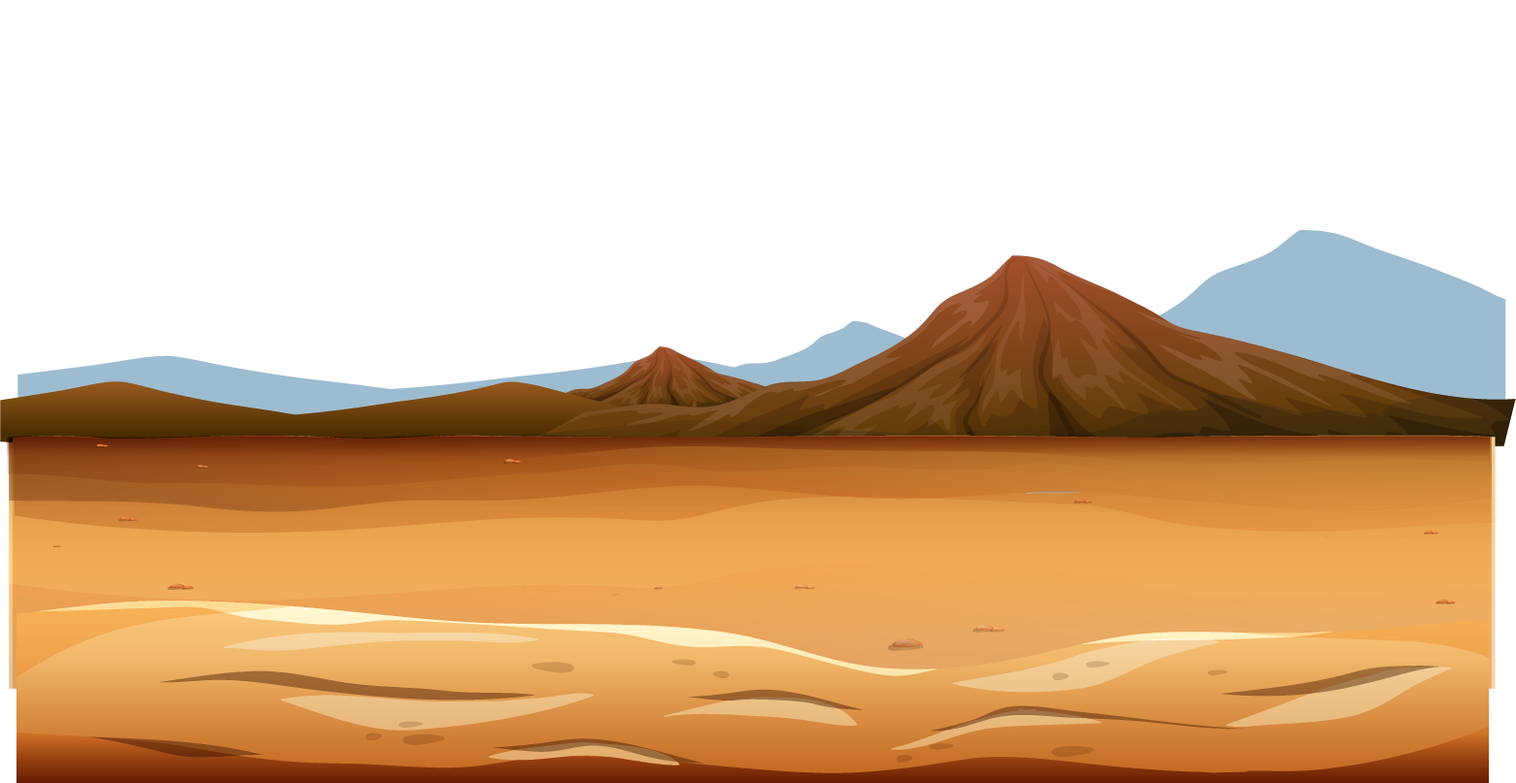
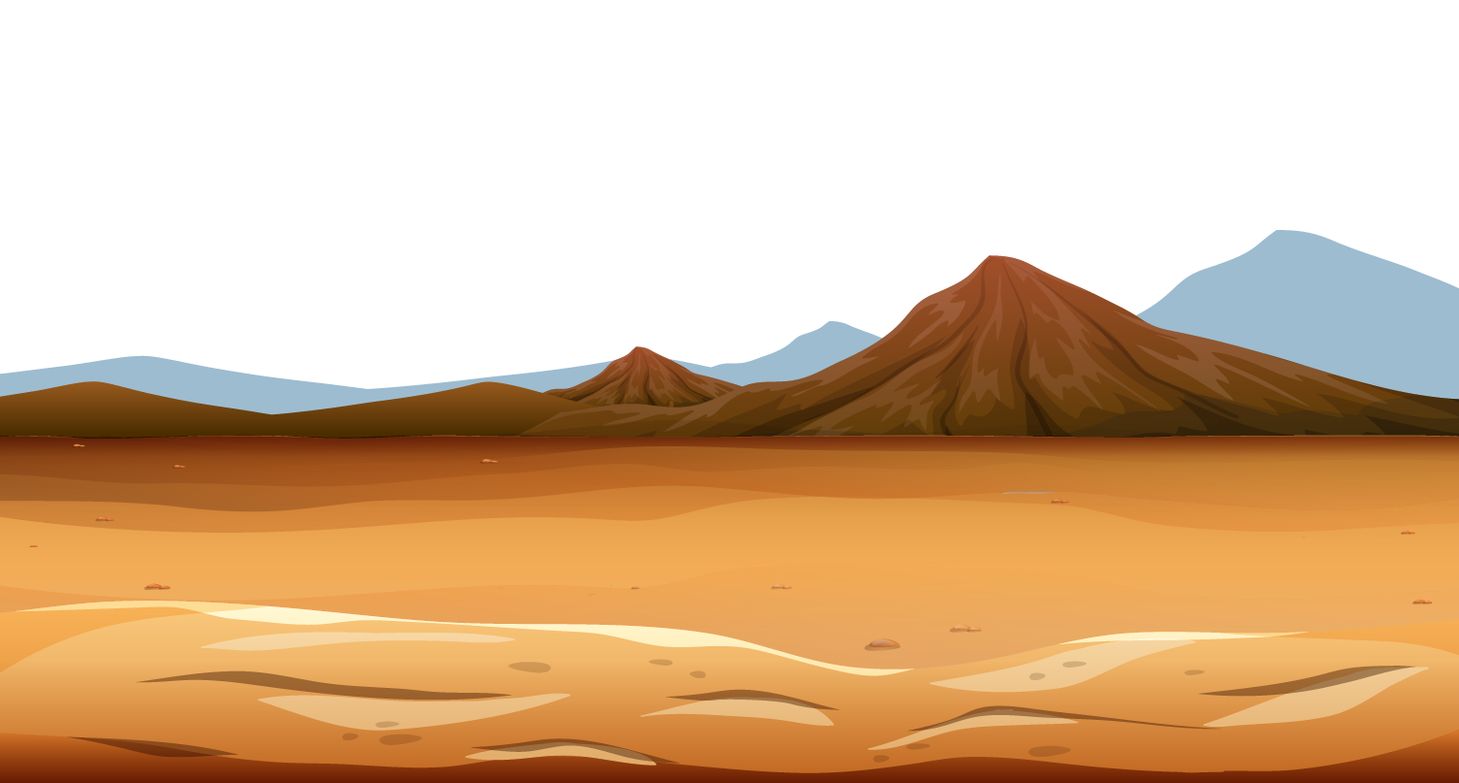
ded

diff --git a/sass/style.css b/sass/style.css
@@ -1,2 +1,2 @@
-@import url("https://fonts.googleapis.com/css2?family=Poppins:wght@400;700&family=Tilt+Neon&family=Outfit:wght@400;700&family=Prompt:wght@400;700&display=swap");section{padding:32px 0;min-height:100vh;z-index:11;background:#eee;position:relative}@media screen and (max-width: 400px){section p{font-size:.85rem}}.sticky-mode{position:sticky;left:0;right:0;top:0;bottom:0;min-height:100vh}.wrap-detikx{width:700px;position:relative;margin:0 auto}@media screen and (max-width: 766px){.wrap-detikx{width:90%;margin:0 auto;display:block}}.totop{position:relative;z-index:19}.firstletter::first-letter{float:left;font-weight:bold;margin-right:8px;font-size:60px;font-size:6rem;line-height:40px;line-height:4rem;height:4rem;text-transform:uppercase}main{overflow-x:clip}html,body{position:relative;height:100%;font-family:'Poppins'}html h2,html h3,body h2,body h3{font-weight:700;font-family:'Prompt'}.opening .point{position:absolute;width:fit-content;z-index:3;height:auto}.opening .point.malang{bottom:25%;right:40%}@media screen and (max-width: 768px){.opening .point.malang{bottom:26%;right:60%;width:80px}}@media screen and (max-width: 363px){.opening .point.malang{bottom:20%}}.opening .point.bwi{bottom:25%;right:10%}@media screen and (max-width: 768px){.opening .point.bwi{width:110px;bottom:35%;right:8%}}@media screen and (max-width: 400px){.opening .point.bwi{bottom:28%}}.opening .point img{width:100%;height:100%;object-fit:contain}.opening .peta{position:absolute;right:-10%;bottom:0;width:150%;height:auto}@media screen and (max-width: 768px){.opening .peta{bottom:-16%;width:250%;right:-20%}}.opening .peta img{width:100%;height:100%;object-fit:cover}.opening .kotak-aja{position:absolute;inset:0;width:100%;height:100%}.opening .kotak-aja img{width:100%;height:100%;object-fit:contain}@media screen and (max-width: 768px){.opening .kotak-aja img{object-fit:cover}}.opening .awan{position:relative;width:100%;height:auto;margin-bottom:16px}.opening .awan img{width:100%;height:100%;object-fit:contain}.banner{background:#f7c58d}.banner .mobil{position:absolute;right:5vw;bottom:8%;width:40vw;height:auto}@media screen and (max-width: 768px){.banner .mobil{width:100%;right:-16%}}.banner .mobil img{width:100%;height:100%;object-fit:contain}.banner .judul{position:absolute;left:50%;top:50%;width:70%;transform:translate(-50%, -50%)}@media screen and (max-width: 768px){.banner .judul{width:80%;top:20%;transform:translate(-50%, 0%)}}.banner .judul h2{font-family:'Prompt', sans-serif;font-size:3.3rem;text-transform:uppercase;text-shadow:-3px 3px 0 white, 2px 3px 0 white, 2px -2px 0 white, -2px 3px 0 white, -3px -2px 0 white}@media screen and (max-width: 768px){.banner .judul h2{font-size:2.9rem}}.cerita{background:#a55e3c;overflow:clip}.cerita::before{content:"";position:absolute;top:-10vh;width:100%;height:100px;left:0;right:0;background:#a55e3c}.cerita .abs{position:absolute}.cerita .abs-3{left:0;top:0;bottom:0;height:140%}@media screen and (max-width: 768px){.cerita .abs-3{left:0;bottom:-78vh;width:fit-content;height:auto}}@media screen and (min-width: 1600px){.cerita .abs-3{left:0;top:0;bottom:0;height:100%}}.cerita .abs-2{left:35vw;top:-12vh;bottom:0;height:80%}@media screen and (max-width: 768px){.cerita .abs-2{left:initial;bottom:-8vh;width:fit-content;height:auto;transform:rotate(-29deg);right:0}}@media screen and (min-width: 1600px){.cerita .abs-2{left:25vw;top:-12vh;bottom:0;height:80%}}.cerita .abs-1{left:-20vw;width:auto;height:140%;bottom:-10vh}@media screen and (max-width: 768px){.cerita .abs-1{left:-76vw;width:auto;height:80%;bottom:-20vh}}@media screen and (min-width: 1900px){.cerita .abs-1{left:-20vw;height:100%;bottom:-10vh}}.cerita .abs img{width:100%;height:100%;object-fit:contain}.cerita .abs-rel{bottom:-46vh;left:-36vw;width:auto;height:100%}@media screen and (max-width: 768px){.cerita .abs-rel{left:-100vw}}@media screen and (min-width: 1400px){.cerita .abs-rel{bottom:-40vh;left:-50vw}}@keyframes banner{0%{transform:rotateY(0deg);bottom:30%;left:5%}20%{bottom:30%;left:5%}50%{bottom:70%;left:-30%}51%{bottom:calc(50% + 300px);left:-55%}100%{bottom:30%;left:5%}}@keyframes banner-mob{0%{transform:rotateY(0deg);bottom:18vh;left:12%}20%{bottom:18vh;left:12%}50%{bottom:40vh;left:-60%}51%{bottom:43vh;left:-62%}100%{bottom:18vh;left:12%}}.cerita .abs.mobil-1{left:5%;bottom:30%;height:250px;width:fit-content;animation:linear infinite;animation-name:banner;animation-duration:12s}@media screen and (max-width: 768px){.cerita .abs.mobil-1{height:18vh;bottom:18vh;left:12%;animation:linear infinite;animation-name:banner-mob;animation-duration:15s}}.cerita .abs.mobil-2{left:20%;bottom:10vh;height:30vh;z-index:1}@media screen and (max-width: 768px){.cerita .abs.mobil-2{left:initial;height:18vh;bottom:10vh;right:6vw}}.cerita .abs.mobil-2 .bayang{position:absolute;right:-52%;height:80px;bottom:6px}@media screen and (max-width: 768px){.cerita .abs.mobil-2 .bayang{right:-44%;height:56px}}.cerita .abs.mobil-2 .bayang img{width:100%;height:100%;object-fit:contain}.cerita .abs.mobil-2 .lala{position:relative;z-index:2}@keyframes Gali{0%, 100%{transform:rotate(-5deg);top:2%;left:-40%}50%{transform:rotate(-15deg);top:4%;left:-36%}}@keyframes GaliBig{0%, 100%{transform:rotate(-5deg);top:2%;left:-30%}50%{transform:rotate(-20deg);top:4%;left:-24%}}.cerita .abs.mobil-2 .gali{animation:Gali 2s linear infinite;position:absolute;left:-40%;width:120px;top:2%;transform:rotate(-5deg);height:120px;z-index:1}@media screen and (max-width: 768px){.cerita .abs.mobil-2 .gali{width:100px;height:100px;left:-50%}}@media screen and (min-width: 1500px){.cerita .abs.mobil-2 .gali{animation:GaliBig 2s linear infinite;left:-30%}}@media screen and (max-width: 400px){.cerita .abs.mobil-2 .gali{width:80px;height:80px;left:-40%}}.cerita .abs.kereta-1{bottom:0;left:8vw;display:none}@media screen and (max-width: 768px){.cerita .abs.kereta-1{bottom:5vh}}@keyframes kereta{0%{bottom:-20vh;left:15vw}30%{bottom:-20vh;left:15vw}50%{bottom:50vh;left:-45vw}51%{bottom:55vh;left:-50vw}100%{bottom:-20vh;left:15vw}}@keyframes kereta-mob{0%{bottom:-3vh;left:12%}30%{bottom:-3vh;left:12%}50%{bottom:20%;left:-70%}51%{bottom:22%;left:-83%}100%{bottom:-3vh;left:12%}}.cerita .abs.kereta-2{bottom:-10vh;animation:linear infinite;animation-name:kereta;animation-duration:10s;left:15vw;z-index:2;height:fit-content}@media screen and (max-width: 768px){.cerita .abs.kereta-2{bottom:-3vh;left:8%;height:180px;animation:linear infinite;animation-name:kereta-mob;animation-duration:12s}}.cerita .wrap-detikx{margin-top:-50vh}@media screen and (max-width: 768px){.cerita .wrap-detikx{margin-top:-100vh}}.cerita .judul{color:#ffe473;font-size:2.2rem;text-align:right;margin:0}@media screen and (max-width: 768px){.cerita .judul{font-size:1.8rem;text-align:left}}.cerita .sub-judul{font-size:1rem;text-align:right;font-weight:700;color:#e2ac71}@media screen and (max-width: 768px){.cerita .sub-judul{text-align:left;padding:0}}.cerita .content{text-align:right;color:white;padding:8px 8px;margin-bottom:10vh;border-radius:16px;background:linear-gradient(to bottom, transparent, rgba(165,94,60,0.7))}@media screen and (max-width: 768px){.cerita .content{text-align:left;margin-bottom:20vh}}@media screen and (max-width: 768px){.cerita .content.mar-bot{margin-bottom:50vh}}.pantai{background:linear-gradient(to left, #058ac7, #95e0ce);overflow:clip;display:none}@media screen and (max-width: 768px){.pantai{background:linear-gradient(to bottom, #058ac7, #95e0ce)}}.pantai .test-pulau{position:absolute;bottom:35vh;right:-8vw;width:35%;height:fit-content}@media screen and (max-width: 768px){.pantai .test-pulau{position:absolute;bottom:35vh;right:50vw;width:70%;height:fit-content}}.pantai .test-pulau img{width:100%;height:100%;object-fit:contain}.pantai .ombak{position:absolute;right:2vw;bottom:-8vh;width:auto;height:fit-content}@media screen and (max-width: 768px){.pantai .ombak{position:absolute;right:-10vw;bottom:15vh;width:100%;height:50vh}}.pantai .ombak img{width:100%;height:100%;object-fit:contain}.pantai .content{color:white}.pantai .wrap-detikx{margin-top:-30vh}@media screen and (max-width: 768px){.pantai .wrap-detikx{margin-top:-80vh}}.pantai .judul{font-size:2.8rem;margin-bottom:16px}@media screen and (max-width: 768px){.pantai .judul{font-size:1.8rem}}.pantai .hello{background:linear-gradient(to bottom, #058ac7, rgba(5,138,199,0.5));padding:8px;border-radius:16px;margin-bottom:10vh}@media screen and (max-width: 768px){.pantai .hello{margin-bottom:40vh}}.sunset{padding-top:0;background:#f1a04b;padding-bottom:1px}.sunset .help-bg{position:absolute;top:-8vh;left:0;right:0;width:100%;height:auto;transform:rotate(180deg);z-index:2}@media screen and (max-width: 768px){.sunset .help-bg{top:0}}.sunset .help-bg img{width:100%;height:100%;object-fit:contain}.sunset .bg{background:linear-gradient(to top, #f0a24b 25%, #fb3d36 25%);position:absolute;inset:0}@media screen and (max-width: 768px){.sunset .bg{background:linear-gradient(to top, #f0a24b 37%, #fb3d36 37%)}}.sunset .img{width:fit-content;height:auto}.sunset .img img{width:100%;height:100%;object-fit:contain}.sunset .awan{position:absolute;top:25%;left:15%;height:auto;width:300px}@media screen and (max-width: 768px){.sunset .awan{width:fit-content}}.sunset .awan img{width:100%;height:100%;object-fit:contain}.sunset .pulau{position:absolute;bottom:20vh;left:50%;z-index:2;width:50%;height:auto;transform:translate(-50%, 0)}@media screen and (max-width: 768px){.sunset .pulau{width:100%;height:auto;bottom:35vh}}.sunset .pulau-bayangan{position:absolute;bottom:0vh;left:50%;z-index:2;width:70%;height:auto;transform:translate(-50%, 0)}@media screen and (max-width: 768px){.sunset .pulau-bayangan{width:150%;height:fit-content;bottom:25vh}}.sunset .matahari{position:absolute;bottom:15vh;left:50%;z-index:1;width:30%;height:auto;transform:translate(-50%, 0)}@media screen and (max-width: 768px){.sunset .matahari{width:50%;height:auto;bottom:35vh}}.sunset .awan-atas{position:absolute;bottom:-5%;z-index:3;left:50%;transform:translate(-50%, 0);width:120%;height:auto}@media screen and (max-width: 768px){.sunset .awan-atas{bottom:-1%}}.sunset .awan-atas img{width:100%;height:100%;object-fit:contain}.sunset .wrap-detikx{margin-top:-50vh}@keyframes burung{0%, 100%{bottom:50vh;opacity:0;transform:scale(0)}20%{bottom:50vh;opacity:0;transform:scale(0)}30%{bottom:50vh;opacity:1;transform:scale(1)}50%{bottom:52vh;opacity:1;transform:scale(1)}70%{bottom:55vh;transform:scale(1);opacity:.5}80%{bottom:55vh;opacity:0;transform:scale(0)}100%{bottom:55vh;opacity:0;transform:scale(0)}}.sunset .burung{animation:burung 15s linear infinite;position:absolute;opacity:0;right:15vw;bottom:50vh}@media screen and (max-width: 768px){.sunset .burung{bottom:60vh}}.sunset .judul{text-align:center;color:white;font-size:2.8rem;margin-bottom:16px;text-shadow:3px 3px #600603}@media screen and (max-width: 768px){.sunset .judul{font-size:1.8rem}}.sunset .hello{background:rgba(252,124,44,0.8);padding:16px;border-radius:16px;margin-bottom:10vh}.sunset .hello.mar-bot{margin-bottom:70vh}.sunset .hello p,.sunset .hello li{color:white}.sunset .abs{display:none}@media screen and (max-width: 768px){.sunset .abs{left:-6%;z-index:4;display:block;bottom:-15%;position:absolute;transform:rotate(130deg);width:115%;height:auto}}.sunset .abs img{width:100%;height:100%;object-fit:contain}.pesisir{background:linear-gradient(to top, #fdbb9b, #f8e99b);padding:0}.pesisir .wrap-detikx{margin-top:-50vh}.pesisir .awan-kuning{position:absolute;left:0;right:0;top:-8vh;width:100%;height:fit-content}@media screen and (max-width: 768px){.pesisir .awan-kuning{top:-3vh}}.pesisir .awan-kuning img{width:100%;height:100%;object-fit:contain}.pesisir .judul{font-size:2.8rem;color:#d85c5c}@media screen and (max-width: 768px){.pesisir .judul{font-size:2rem}}.pesisir .hello{background:linear-gradient(to bottom, #faae2e, rgba(250,174,46,0.7));padding:16px;border-radius:16px;margin-bottom:20vh;color:white}.pesisir .hello.mar-bot{margin-bottom:50vh}.pesisir .mobil{position:absolute;right:0;z-index:3;width:fit-content;height:40%;bottom:20px}@media screen and (max-width: 768px){.pesisir .mobil{bottom:72px;width:50%;height:auto}}.pesisir .mobil img{width:100%;height:100%;object-fit:contain}.pesisir .pohon{position:absolute;right:0;bottom:157px;z-index:1;width:50%}@media screen and (max-width: 768px){.pesisir .pohon{width:100%;bottom:80px}}.pesisir .pohon img{width:100%;height:100%;object-fit:contain}.pesisir .awan{position:absolute;right:10%;top:15%;width:fit-content;height:70px}.pesisir .awan img{width:100%;height:100%;object-fit:contain}.pesisir .alat{position:absolute;bottom:100px;right:30vw;width:18%;height:auto;z-index:2}@media screen and (max-width: 768px){.pesisir .alat{right:40%;width:20%}}.pesisir .alat img{width:100%;height:100%;object-fit:contain}.pesisir .aer{position:absolute;bottom:0;left:0;right:0}@media screen and (max-width: 768px){.pesisir .aer{bottom:72px}}.pesisir .aer img{width:100%;height:auto;object-fit:contain}.pesisir .pasir{position:absolute;bottom:0;left:0;right:0;width:100%;z-index:1;height:fit-content}@media screen and (max-width: 768px){.pesisir .pasir{bottom:72px}}.pesisir .pasir img{width:100%;height:auto}.bromo{background:#c1e7fa;padding:1px 0;overflow-y:clip}@keyframes awanbromo{0%, 100%{left:15%}50%{left:25%}}.bromo .awan-bromo{position:absolute;animation:awanbromo 10s linear infinite;bottom:25%;left:15%;width:300px;height:auto;z-index:3}@media screen and (max-width: 768px){.bromo .awan-bromo{bottom:12%;width:120px}}.bromo .awan-bromo img{width:100%;height:100%;object-fit:contain}@keyframes awanbromo2{0%, 100%{right:15%}50%{right:20%}}.bromo .awan-bromo2{position:absolute;animation:awanbromo2 13s linear infinite;bottom:20%;right:15%;width:200px;height:auto;z-index:3}@media screen and (max-width: 768px){.bromo .awan-bromo2{bottom:12%;width:120px}}.bromo .awan-bromo2 img{width:100%;height:100%;object-fit:contain}.bromo .gunung{position:absolute;left:0;right:0;bottom:0vh;width:100%;height:auto}@media screen and (max-width: 768px){.bromo .gunung{bottom:0;width:160%;transform:translate(-50%, 0);left:50%}}.bromo .gunung img{width:100%;height:100%;object-fit:cover}.bromo .content .judul{color:#507125;font-size:2.8rem}@media screen and (max-width: 768px){.bromo .content .judul{font-size:1.7rem}}.bromo .content .hello{padding:16px;border-radius:16px;margin-bottom:30vh;background:linear-gradient(to bottom, #fff, rgba(255,255,255,0.8))}@media screen and (max-width: 768px){.bromo .content .hello{margin-bottom:10vh}}.bromo .content .hello.mar-bot{margin-bottom:50vh}.bromo .wrap-detikx{margin-top:-20vh}@media screen and (max-width: 768px){.bromo .wrap-detikx{margin-top:-90vh}}.lautan-pasir .judul{font-size:2.8rem}@media screen and (max-width: 768px){.lautan-pasir .judul{font-size:1.8rem}}.lautan-pasir .batas{position:absolute;top:-8vh;left:0;right:0}.lautan-pasir .batas::before{content:"";position:absolute;left:0;right:0;bottom:0;width:100%;height:200px;background:linear-gradient(to top, #eee, transparent)}@media screen and (max-width: 768px){.lautan-pasir .batas::before{background:transparent}}.lautan-pasir .img{width:100%;height:420px;border-radius:16px;box-shadow:3px 3px 5px #bbb}@media screen and (max-width: 768px){.lautan-pasir .img{height:320px}}.lautan-pasir .img img{width:100%;border-radius:16px;height:100%;object-fit:cover}.lautan-pasir .content{margin:16px 0}.pembukaan{background:#f7c58d}.pembukaan .wrap-detikx{position:relative;top:-80vh}.pembukaan .coba-peta{position:absolute;bottom:5%;left:50%;width:80%;height:50%;transform:translate(-50%, 0)}.pembukaan .coba-peta img{width:100%;height:100%;object-fit:contain}.pembukaan .jatim{position:absolute;right:5%;bottom:35%;width:320px;height:auto}@media screen and (max-width: 768px){.pembukaan .jatim{bottom:35%;width:110px}}.pembukaan .jatim img{width:100%;height:100%;object-fit:contain}.malang{background:#d7f0f7;padding:0}.malang .judul{font-size:3.3rem}@media screen and (max-width: 768px){.malang .judul{font-size:2.8rem}}.malang .helping{position:absolute;inset:0;background:linear-gradient(to top, #c5d566 22%, #d7f0f7 20%)}@media screen and (max-width: 768px){.malang .helping{background:linear-gradient(to top, #c5d566 63%, #d7f0f7 20%)}}@media screen and (max-width: 405px){.malang .helping{background:linear-gradient(to top, #c5d566 67%, #d7f0f7 20%)}}.malang .tahu-telur{position:absolute;top:55%;right:30%;width:220px;height:auto}@media screen and (min-width: 1400px){.malang .tahu-telur{transform:translate(0, -24%)}}@media screen and (max-width: 768px){.malang .tahu-telur{position:absolute;top:26%;right:70%;width:76px;height:auto}}@media screen and (max-width: 405px){.malang .tahu-telur{top:28%}}.malang .tahu-telur img{width:100%;height:100%;object-fit:contain}.malang .stick-judul{font-size:3.5rem;top:28%;right:7%;width:30%;position:absolute;text-align:center;line-height:3rem;text-shadow:3px 3px silver}@media screen and (max-width: 768px){.malang .stick-judul{font-size:2.5rem;top:10%;line-height:2rem;right:5%;width:70%;text-align:right;position:absolute}}.malang .hello{margin-bottom:30vh;background:linear-gradient(to bottom, #fff, rgba(255,255,255,0.8));padding:16px;border-radius:16px}@media screen and (max-width: 768px){.malang .hello{margin-bottom:10vh}}.malang .wrap-detikx{position:relative;top:-90vh}@media screen and (max-width: 768px){.malang .wrap-detikx{top:-60vh}}.malang .taman{position:absolute;top:10%;right:0;width:70%;height:auto}@media screen and (max-width: 768px){.malang .taman{width:100%}}.malang .taman img{width:100%;height:100%;object-fit:contain}.surabaya .judul{font-size:3rem}
+@import url("https://fonts.googleapis.com/css2?family=Poppins:wght@400;700&family=Tilt+Neon&family=Outfit:wght@400;700&family=Prompt:wght@400;700&display=swap");section{padding:32px 0;min-height:100vh;z-index:11;background:#eee;position:relative}@media screen and (max-width: 400px){section p{font-size:.85rem}}.sticky-mode{position:sticky;left:0;right:0;top:0;bottom:0;min-height:100vh}.wrap-detikx{width:700px;position:relative;margin:0 auto}@media screen and (max-width: 766px){.wrap-detikx{width:90%;margin:0 auto;display:block}}.totop{position:relative;z-index:19}.firstletter::first-letter{float:left;font-weight:bold;margin-right:8px;font-size:60px;font-size:6rem;line-height:40px;line-height:4rem;height:4rem;text-transform:uppercase}main{overflow-x:clip}html,body{position:relative;height:100%;font-family:'Poppins'}html h2,html h3,body h2,body h3{font-weight:700;font-family:'Prompt'}.opening .point{position:absolute;width:fit-content;z-index:3;height:auto}.opening .point.malang{bottom:25%;right:40%}@media screen and (max-width: 768px){.opening .point.malang{bottom:26%;right:60%;width:80px}}@media screen and (max-width: 363px){.opening .point.malang{bottom:20%}}.opening .point.bwi{bottom:25%;right:10%}@media screen and (max-width: 768px){.opening .point.bwi{width:110px;bottom:35%;right:8%}}@media screen and (max-width: 400px){.opening .point.bwi{bottom:28%}}.opening .point img{width:100%;height:100%;object-fit:contain}.opening .peta{position:absolute;right:-10%;bottom:0;width:150%;height:auto}@media screen and (max-width: 768px){.opening .peta{bottom:-16%;width:250%;right:-20%}}.opening .peta img{width:100%;height:100%;object-fit:cover}.opening .kotak-aja{position:absolute;inset:0;width:100%;height:100%}.opening .kotak-aja img{width:100%;height:100%;object-fit:contain}@media screen and (max-width: 768px){.opening .kotak-aja img{object-fit:cover}}.opening .awan{position:relative;width:100%;height:auto;margin-bottom:16px}.opening .awan img{width:100%;height:100%;object-fit:contain}.banner{background:#f7c58d}.banner .mobil{position:absolute;right:5vw;bottom:8%;width:40vw;height:auto;z-index:4}@media screen and (max-width: 768px){.banner .mobil{width:100%;right:-16%;bottom:5%}}.banner .mobil img{width:100%;height:100%;object-fit:contain}.banner .pasir{position:absolute;inset:0;width:100%;height:auto}@media screen and (max-width: 768px){.banner .pasir{inset:initial;left:0;right:0;bottom:0;width:200%;height:auto}}.banner .pasir img{width:100%;height:100%;object-fit:cover}.banner .judul{position:absolute;left:50%;top:30%;width:70%;transform:translate(-50%, -50%)}@media screen and (max-width: 768px){.banner .judul{width:80%;top:20%;transform:translate(-50%, 0%)}}.banner .judul h2{font-family:'Prompt', sans-serif;font-size:3.3rem;text-transform:uppercase;text-shadow:-3px 3px 0 white, 2px 3px 0 white, 2px -2px 0 white, -2px 3px 0 white, -3px -2px 0 white}@media screen and (max-width: 768px){.banner .judul h2{font-size:2.9rem}}.cerita{background:#a55e3c;overflow:clip}.cerita::before{content:"";position:absolute;top:-10vh;width:100%;height:100px;left:0;right:0;background:#a55e3c}.cerita .abs{position:absolute}.cerita .abs-3{left:0;top:0;bottom:0;height:140%}@media screen and (max-width: 768px){.cerita .abs-3{left:0;bottom:-78vh;width:fit-content;height:auto}}@media screen and (min-width: 1600px){.cerita .abs-3{left:0;top:0;bottom:0;height:100%}}.cerita .abs-2{left:35vw;top:-12vh;bottom:0;height:80%}@media screen and (max-width: 768px){.cerita .abs-2{left:initial;bottom:-8vh;width:fit-content;height:auto;transform:rotate(-29deg);right:0}}@media screen and (min-width: 1600px){.cerita .abs-2{left:25vw;top:-12vh;bottom:0;height:80%}}.cerita .abs-1{left:-20vw;width:auto;height:140%;bottom:-10vh}@media screen and (max-width: 768px){.cerita .abs-1{left:-76vw;width:auto;height:80%;bottom:-20vh}}@media screen and (min-width: 1900px){.cerita .abs-1{left:-20vw;height:100%;bottom:-10vh}}.cerita .abs img{width:100%;height:100%;object-fit:contain}.cerita .abs-rel{bottom:-46vh;left:-36vw;width:auto;height:100%}@media screen and (max-width: 768px){.cerita .abs-rel{left:-100vw}}@media screen and (min-width: 1400px){.cerita .abs-rel{bottom:-40vh;left:-50vw}}@keyframes banner{0%{transform:rotateY(0deg);bottom:30%;left:5%}20%{bottom:30%;left:5%}50%{bottom:70%;left:-30%}51%{bottom:calc(50% + 300px);left:-55%}100%{bottom:30%;left:5%}}@keyframes banner-mob{0%{transform:rotateY(0deg);bottom:18vh;left:12%}20%{bottom:18vh;left:12%}50%{bottom:40vh;left:-60%}51%{bottom:43vh;left:-62%}100%{bottom:18vh;left:12%}}.cerita .abs.mobil-1{left:5%;bottom:30%;height:250px;width:fit-content;animation:linear infinite;animation-name:banner;animation-duration:12s}@media screen and (max-width: 768px){.cerita .abs.mobil-1{height:18vh;bottom:18vh;left:12%;animation:linear infinite;animation-name:banner-mob;animation-duration:15s}}.cerita .abs.mobil-2{left:20%;bottom:10vh;height:30vh;z-index:1}@media screen and (max-width: 768px){.cerita .abs.mobil-2{left:initial;height:18vh;bottom:10vh;right:6vw}}.cerita .abs.mobil-2 .bayang{position:absolute;right:-52%;height:80px;bottom:6px}@media screen and (max-width: 768px){.cerita .abs.mobil-2 .bayang{right:-44%;height:56px}}.cerita .abs.mobil-2 .bayang img{width:100%;height:100%;object-fit:contain}.cerita .abs.mobil-2 .lala{position:relative;z-index:2}@keyframes Gali{0%, 100%{transform:rotate(-5deg);top:2%;left:-40%}50%{transform:rotate(-15deg);top:4%;left:-36%}}@keyframes GaliBig{0%, 100%{transform:rotate(-5deg);top:2%;left:-30%}50%{transform:rotate(-20deg);top:4%;left:-24%}}.cerita .abs.mobil-2 .gali{animation:Gali 2s linear infinite;position:absolute;left:-40%;width:120px;top:2%;transform:rotate(-5deg);height:120px;z-index:1}@media screen and (max-width: 768px){.cerita .abs.mobil-2 .gali{width:100px;height:100px;left:-50%}}@media screen and (min-width: 1500px){.cerita .abs.mobil-2 .gali{animation:GaliBig 2s linear infinite;left:-30%}}@media screen and (max-width: 400px){.cerita .abs.mobil-2 .gali{width:80px;height:80px;left:-40%}}.cerita .abs.kereta-1{bottom:0;left:8vw;display:none}@media screen and (max-width: 768px){.cerita .abs.kereta-1{bottom:5vh}}@keyframes kereta{0%{bottom:-20vh;left:15vw}30%{bottom:-20vh;left:15vw}50%{bottom:50vh;left:-45vw}51%{bottom:55vh;left:-50vw}100%{bottom:-20vh;left:15vw}}@keyframes kereta-mob{0%{bottom:-3vh;left:12%}30%{bottom:-3vh;left:12%}50%{bottom:20%;left:-70%}51%{bottom:22%;left:-83%}100%{bottom:-3vh;left:12%}}.cerita .abs.kereta-2{bottom:-10vh;animation:linear infinite;animation-name:kereta;animation-duration:10s;left:15vw;z-index:2;height:fit-content}@media screen and (max-width: 768px){.cerita .abs.kereta-2{bottom:-3vh;left:8%;height:180px;animation:linear infinite;animation-name:kereta-mob;animation-duration:12s}}.cerita .wrap-detikx{margin-top:-50vh}@media screen and (max-width: 768px){.cerita .wrap-detikx{margin-top:-100vh}}.cerita .judul{color:#ffe473;font-size:2.2rem;text-align:right;margin:0}@media screen and (max-width: 768px){.cerita .judul{font-size:1.8rem;text-align:left}}.cerita .sub-judul{font-size:1rem;text-align:right;font-weight:700;color:#e2ac71}@media screen and (max-width: 768px){.cerita .sub-judul{text-align:left;padding:0}}.cerita .content{text-align:right;color:white;padding:8px 8px;margin-bottom:10vh;border-radius:16px;background:linear-gradient(to bottom, transparent, rgba(165,94,60,0.7))}@media screen and (max-width: 768px){.cerita .content{text-align:left;margin-bottom:20vh}}@media screen and (max-width: 768px){.cerita .content.mar-bot{margin-bottom:50vh}}.pantai{background:linear-gradient(to left, #058ac7, #95e0ce);overflow:clip;display:none}@media screen and (max-width: 768px){.pantai{background:linear-gradient(to bottom, #058ac7, #95e0ce)}}.pantai .test-pulau{position:absolute;bottom:35vh;right:-8vw;width:35%;height:fit-content}@media screen and (max-width: 768px){.pantai .test-pulau{position:absolute;bottom:35vh;right:50vw;width:70%;height:fit-content}}.pantai .test-pulau img{width:100%;height:100%;object-fit:contain}.pantai .ombak{position:absolute;right:2vw;bottom:-8vh;width:auto;height:fit-content}@media screen and (max-width: 768px){.pantai .ombak{position:absolute;right:-10vw;bottom:15vh;width:100%;height:50vh}}.pantai .ombak img{width:100%;height:100%;object-fit:contain}.pantai .content{color:white}.pantai .wrap-detikx{margin-top:-30vh}@media screen and (max-width: 768px){.pantai .wrap-detikx{margin-top:-80vh}}.pantai .judul{font-size:2.8rem;margin-bottom:16px}@media screen and (max-width: 768px){.pantai .judul{font-size:1.8rem}}.pantai .hello{background:linear-gradient(to bottom, #058ac7, rgba(5,138,199,0.5));padding:8px;border-radius:16px;margin-bottom:10vh}@media screen and (max-width: 768px){.pantai .hello{margin-bottom:40vh}}.sunset{padding-top:0;background:#f1a04b;padding-bottom:1px}.sunset .help-bg{position:absolute;top:-8vh;left:0;right:0;width:100%;height:auto;transform:rotate(180deg);z-index:2}@media screen and (max-width: 768px){.sunset .help-bg{top:0}}.sunset .help-bg img{width:100%;height:100%;object-fit:contain}.sunset .bg{background:linear-gradient(to top, #f0a24b 25%, #fb3d36 25%);position:absolute;inset:0}@media screen and (max-width: 768px){.sunset .bg{background:linear-gradient(to top, #f0a24b 37%, #fb3d36 37%)}}.sunset .img{width:fit-content;height:auto}.sunset .img img{width:100%;height:100%;object-fit:contain}.sunset .awan{position:absolute;top:25%;left:15%;height:auto;width:300px}@media screen and (max-width: 768px){.sunset .awan{width:fit-content}}.sunset .awan img{width:100%;height:100%;object-fit:contain}.sunset .pulau{position:absolute;bottom:20vh;left:50%;z-index:2;width:50%;height:auto;transform:translate(-50%, 0)}@media screen and (max-width: 768px){.sunset .pulau{width:100%;height:auto;bottom:35vh}}.sunset .pulau-bayangan{position:absolute;bottom:0vh;left:50%;z-index:2;width:70%;height:auto;transform:translate(-50%, 0)}@media screen and (max-width: 768px){.sunset .pulau-bayangan{width:150%;height:fit-content;bottom:25vh}}.sunset .matahari{position:absolute;bottom:15vh;left:50%;z-index:1;width:30%;height:auto;transform:translate(-50%, 0)}@media screen and (max-width: 768px){.sunset .matahari{width:50%;height:auto;bottom:35vh}}.sunset .awan-atas{position:absolute;bottom:-5%;z-index:3;left:50%;transform:translate(-50%, 0);width:120%;height:auto}@media screen and (max-width: 768px){.sunset .awan-atas{bottom:-1%}}.sunset .awan-atas img{width:100%;height:100%;object-fit:contain}.sunset .wrap-detikx{margin-top:-50vh}@keyframes burung{0%, 100%{bottom:50vh;opacity:0;transform:scale(0)}20%{bottom:50vh;opacity:0;transform:scale(0)}30%{bottom:50vh;opacity:1;transform:scale(1)}50%{bottom:52vh;opacity:1;transform:scale(1)}70%{bottom:55vh;transform:scale(1);opacity:.5}80%{bottom:55vh;opacity:0;transform:scale(0)}100%{bottom:55vh;opacity:0;transform:scale(0)}}.sunset .burung{animation:burung 15s linear infinite;position:absolute;opacity:0;right:15vw;bottom:50vh}@media screen and (max-width: 768px){.sunset .burung{bottom:60vh}}.sunset .judul{text-align:center;color:white;font-size:2.8rem;margin-bottom:16px;text-shadow:3px 3px #600603}@media screen and (max-width: 768px){.sunset .judul{font-size:1.8rem}}.sunset .hello{background:rgba(252,124,44,0.8);padding:16px;border-radius:16px;margin-bottom:10vh}.sunset .hello.mar-bot{margin-bottom:70vh}.sunset .hello p,.sunset .hello li{color:white}.sunset .abs{display:none}@media screen and (max-width: 768px){.sunset .abs{left:-6%;z-index:4;display:block;bottom:-15%;position:absolute;transform:rotate(130deg);width:115%;height:auto}}.sunset .abs img{width:100%;height:100%;object-fit:contain}.pesisir{background:linear-gradient(to top, #fdbb9b, #f8e99b);padding:0}.pesisir .wrap-detikx{margin-top:-50vh}.pesisir .awan-kuning{position:absolute;left:0;right:0;top:-8vh;width:100%;height:fit-content}@media screen and (max-width: 768px){.pesisir .awan-kuning{top:-3vh}}.pesisir .awan-kuning img{width:100%;height:100%;object-fit:contain}.pesisir .judul{font-size:2.8rem;color:#d85c5c}@media screen and (max-width: 768px){.pesisir .judul{font-size:2rem}}.pesisir .hello{background:linear-gradient(to bottom, #faae2e, rgba(250,174,46,0.7));padding:16px;border-radius:16px;margin-bottom:20vh;color:white}.pesisir .hello.mar-bot{margin-bottom:50vh}.pesisir .mobil{position:absolute;right:0;z-index:3;width:fit-content;height:40%;bottom:20px}@media screen and (max-width: 768px){.pesisir .mobil{bottom:72px;width:50%;height:auto}}.pesisir .mobil img{width:100%;height:100%;object-fit:contain}.pesisir .pohon{position:absolute;right:0;bottom:157px;z-index:1;width:50%}@media screen and (max-width: 768px){.pesisir .pohon{width:100%;bottom:80px}}.pesisir .pohon img{width:100%;height:100%;object-fit:contain}.pesisir .awan{position:absolute;right:10%;top:15%;width:fit-content;height:70px}.pesisir .awan img{width:100%;height:100%;object-fit:contain}.pesisir .alat{position:absolute;bottom:100px;right:30vw;width:18%;height:auto;z-index:2}@media screen and (max-width: 768px){.pesisir .alat{right:40%;width:20%}}.pesisir .alat img{width:100%;height:100%;object-fit:contain}.pesisir .aer{position:absolute;bottom:0;left:0;right:0}@media screen and (max-width: 768px){.pesisir .aer{bottom:72px}}.pesisir .aer img{width:100%;height:auto;object-fit:contain}.pesisir .pasir{position:absolute;bottom:0;left:0;right:0;width:100%;z-index:1;height:fit-content}@media screen and (max-width: 768px){.pesisir .pasir{bottom:72px}}.pesisir .pasir img{width:100%;height:auto}.bromo{background:#c1e7fa;padding:1px 0;overflow-y:clip}@keyframes awanbromo{0%, 100%{left:15%}50%{left:25%}}.bromo .awan-bromo{position:absolute;animation:awanbromo 10s linear infinite;bottom:25%;left:15%;width:300px;height:auto;z-index:3}@media screen and (max-width: 768px){.bromo .awan-bromo{bottom:12%;width:120px}}.bromo .awan-bromo img{width:100%;height:100%;object-fit:contain}@keyframes awanbromo2{0%, 100%{right:15%}50%{right:20%}}.bromo .awan-bromo2{position:absolute;animation:awanbromo2 13s linear infinite;bottom:20%;right:15%;width:200px;height:auto;z-index:3}@media screen and (max-width: 768px){.bromo .awan-bromo2{bottom:12%;width:120px}}.bromo .awan-bromo2 img{width:100%;height:100%;object-fit:contain}.bromo .gunung{position:absolute;left:0;right:0;bottom:0vh;width:100%;height:auto}@media screen and (max-width: 768px){.bromo .gunung{bottom:0;width:160%;transform:translate(-50%, 0);left:50%}}.bromo .gunung img{width:100%;height:100%;object-fit:cover}.bromo .content .judul{color:#507125;font-size:2.8rem}@media screen and (max-width: 768px){.bromo .content .judul{font-size:1.7rem}}.bromo .content .hello{padding:16px;border-radius:16px;margin-bottom:30vh;background:linear-gradient(to bottom, #fff, rgba(255,255,255,0.8))}@media screen and (max-width: 768px){.bromo .content .hello{margin-bottom:10vh}}.bromo .content .hello.mar-bot{margin-bottom:50vh}.bromo .wrap-detikx{margin-top:-20vh}@media screen and (max-width: 768px){.bromo .wrap-detikx{margin-top:-90vh}}.lautan-pasir .judul{font-size:2.8rem}@media screen and (max-width: 768px){.lautan-pasir .judul{font-size:1.8rem}}.lautan-pasir .batas{position:absolute;top:-8vh;left:0;right:0}.lautan-pasir .batas::before{content:"";position:absolute;left:0;right:0;bottom:0;width:100%;height:200px;background:linear-gradient(to top, #eee, transparent)}@media screen and (max-width: 768px){.lautan-pasir .batas::before{background:transparent}}.lautan-pasir .img{width:100%;height:420px;border-radius:16px;box-shadow:3px 3px 5px #bbb}@media screen and (max-width: 768px){.lautan-pasir .img{height:320px}}.lautan-pasir .img img{width:100%;border-radius:16px;height:100%;object-fit:cover}.lautan-pasir .content{margin:16px 0}.pembukaan{background:#f7c58d}.pembukaan .wrap-detikx{position:relative;top:-80vh}.pembukaan .coba-peta{position:absolute;bottom:5%;left:50%;width:80%;height:50%;transform:translate(-50%, 0)}.pembukaan .coba-peta img{width:100%;height:100%;object-fit:contain}.pembukaan .jatim{position:absolute;right:5%;bottom:35%;width:320px;height:auto}@media screen and (max-width: 768px){.pembukaan .jatim{bottom:35%;width:110px}}.pembukaan .jatim img{width:100%;height:100%;object-fit:contain}.malang{background:#d7f0f7;padding:0}.malang .judul{font-size:3.3rem}@media screen and (max-width: 768px){.malang .judul{font-size:2.8rem}}.malang .helping{position:absolute;inset:0;background:linear-gradient(to top, #c5d566 22%, #d7f0f7 20%)}@media screen and (max-width: 768px){.malang .helping{background:linear-gradient(to top, #c5d566 63%, #d7f0f7 20%)}}@media screen and (max-width: 405px){.malang .helping{background:linear-gradient(to top, #c5d566 67%, #d7f0f7 20%)}}.malang .tahu-telur{position:absolute;top:55%;right:30%;width:220px;height:auto}@media screen and (min-width: 1400px){.malang .tahu-telur{transform:translate(0, -24%)}}@media screen and (max-width: 768px){.malang .tahu-telur{position:absolute;top:26%;right:70%;width:76px;height:auto}}@media screen and (max-width: 405px){.malang .tahu-telur{top:28%}}.malang .tahu-telur img{width:100%;height:100%;object-fit:contain}.malang .stick-judul{font-size:3.5rem;top:28%;right:7%;width:30%;position:absolute;text-align:center;line-height:3rem;text-shadow:3px 3px silver}@media screen and (max-width: 768px){.malang .stick-judul{font-size:2.5rem;top:10%;line-height:2rem;right:5%;width:70%;text-align:right;position:absolute}}.malang .hello{margin-bottom:30vh;background:linear-gradient(to bottom, #fff, rgba(255,255,255,0.8));padding:16px;border-radius:16px}@media screen and (max-width: 768px){.malang .hello{margin-bottom:10vh}}.malang .wrap-detikx{position:relative;top:-90vh}@media screen and (max-width: 768px){.malang .wrap-detikx{top:-60vh}}.malang .taman{position:absolute;top:10%;right:0;width:70%;height:auto}@media screen and (max-width: 768px){.malang .taman{width:100%}}.malang .taman img{width:100%;height:100%;object-fit:contain}.surabaya .judul{font-size:3rem}
 /*# sourceMappingURL=style.css.map */

diff --git a/sass/banner.scss b/sass/banner.scss
@@ -6,9 +6,11 @@
         bottom: 8%;
         width: 40vw;
         height: auto;
+        z-index: 4;
         @media screen and (max-width:768px) {
             width: 100%;
             right: -16%;
+            bottom: 5%;
         }
         img {
             width: 100%;
@@ -16,10 +18,31 @@
             object-fit: contain;
         }
     }
+
+    .pasir {
+        position: absolute;
+        inset: 0;
+        width: 100%;
+        height: auto;
+        @media screen and (max-width:768px) {
+            inset: initial;
+            left: 0;
+            right: 0;
+            bottom: 0;
+            width: 200%;
+            height: auto;
+        }
+        img {
+            width: 100%;
+            height: 100%;
+            object-fit: cover;
+            
+        }
+    }
     .judul {
         position: absolute;
         left: 50%;
-        top: 50%;
+        top: 30%;
         width: 70%;
         transform: translate(-50%, -50%);
         @media screen and (max-width:768px) {

diff --git a/index.html b/index.html
@@ -18,6 +18,9 @@
                     <div class="mobil">
                         <img src="img/mobil-ekspedisi.png" alt="">
                     </div>
+                    <div class="pasir">
+                        <img src="img/coba-pasir.png" alt="">
+                    </div>
                 </div>
             </section>
             <section class="pembukaan">
